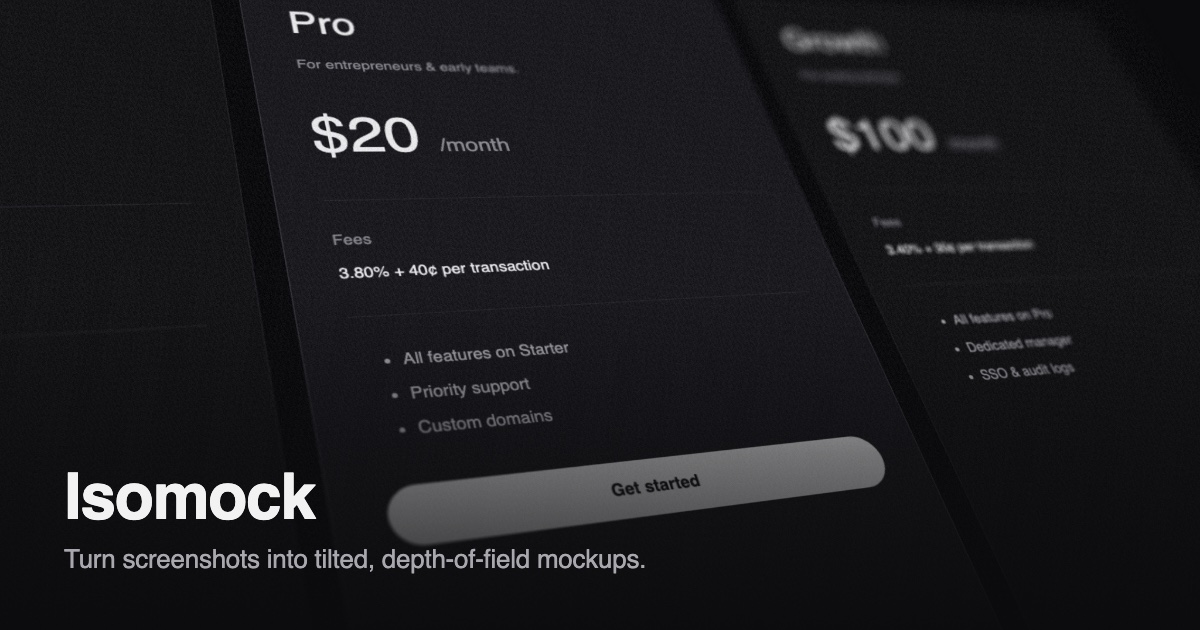
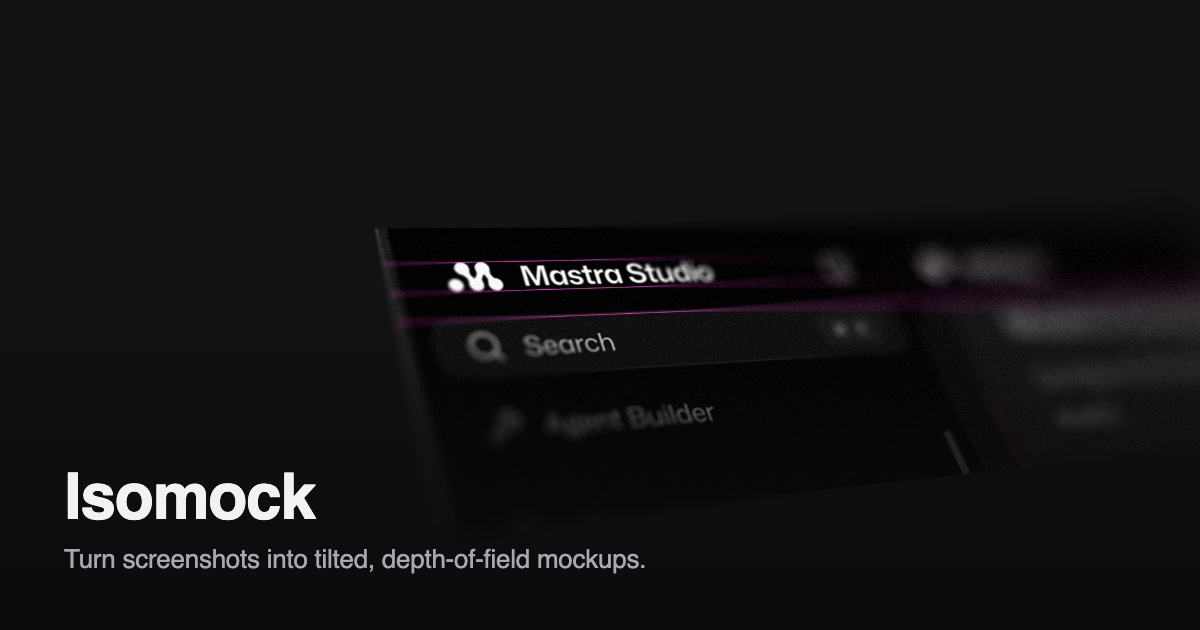
feat: use the Mastra Studio mockup for the OG image

diff --git a/worker/index.js b/worker/index.js
@@ -1,6 +1,6 @@
 const title = "Isomock";
 const description = "Turn screenshots into tilted, depth-of-field mockups.";
-const imageAlt = "A pricing page screenshot tilted in perspective with depth-of-field blur";
+const imageAlt = "The Mastra Studio sidebar tilted in perspective with depth-of-field blur";
 
 const setContent = (value) => ({ element: (element) => element.setAttribute("content", value) });
 
